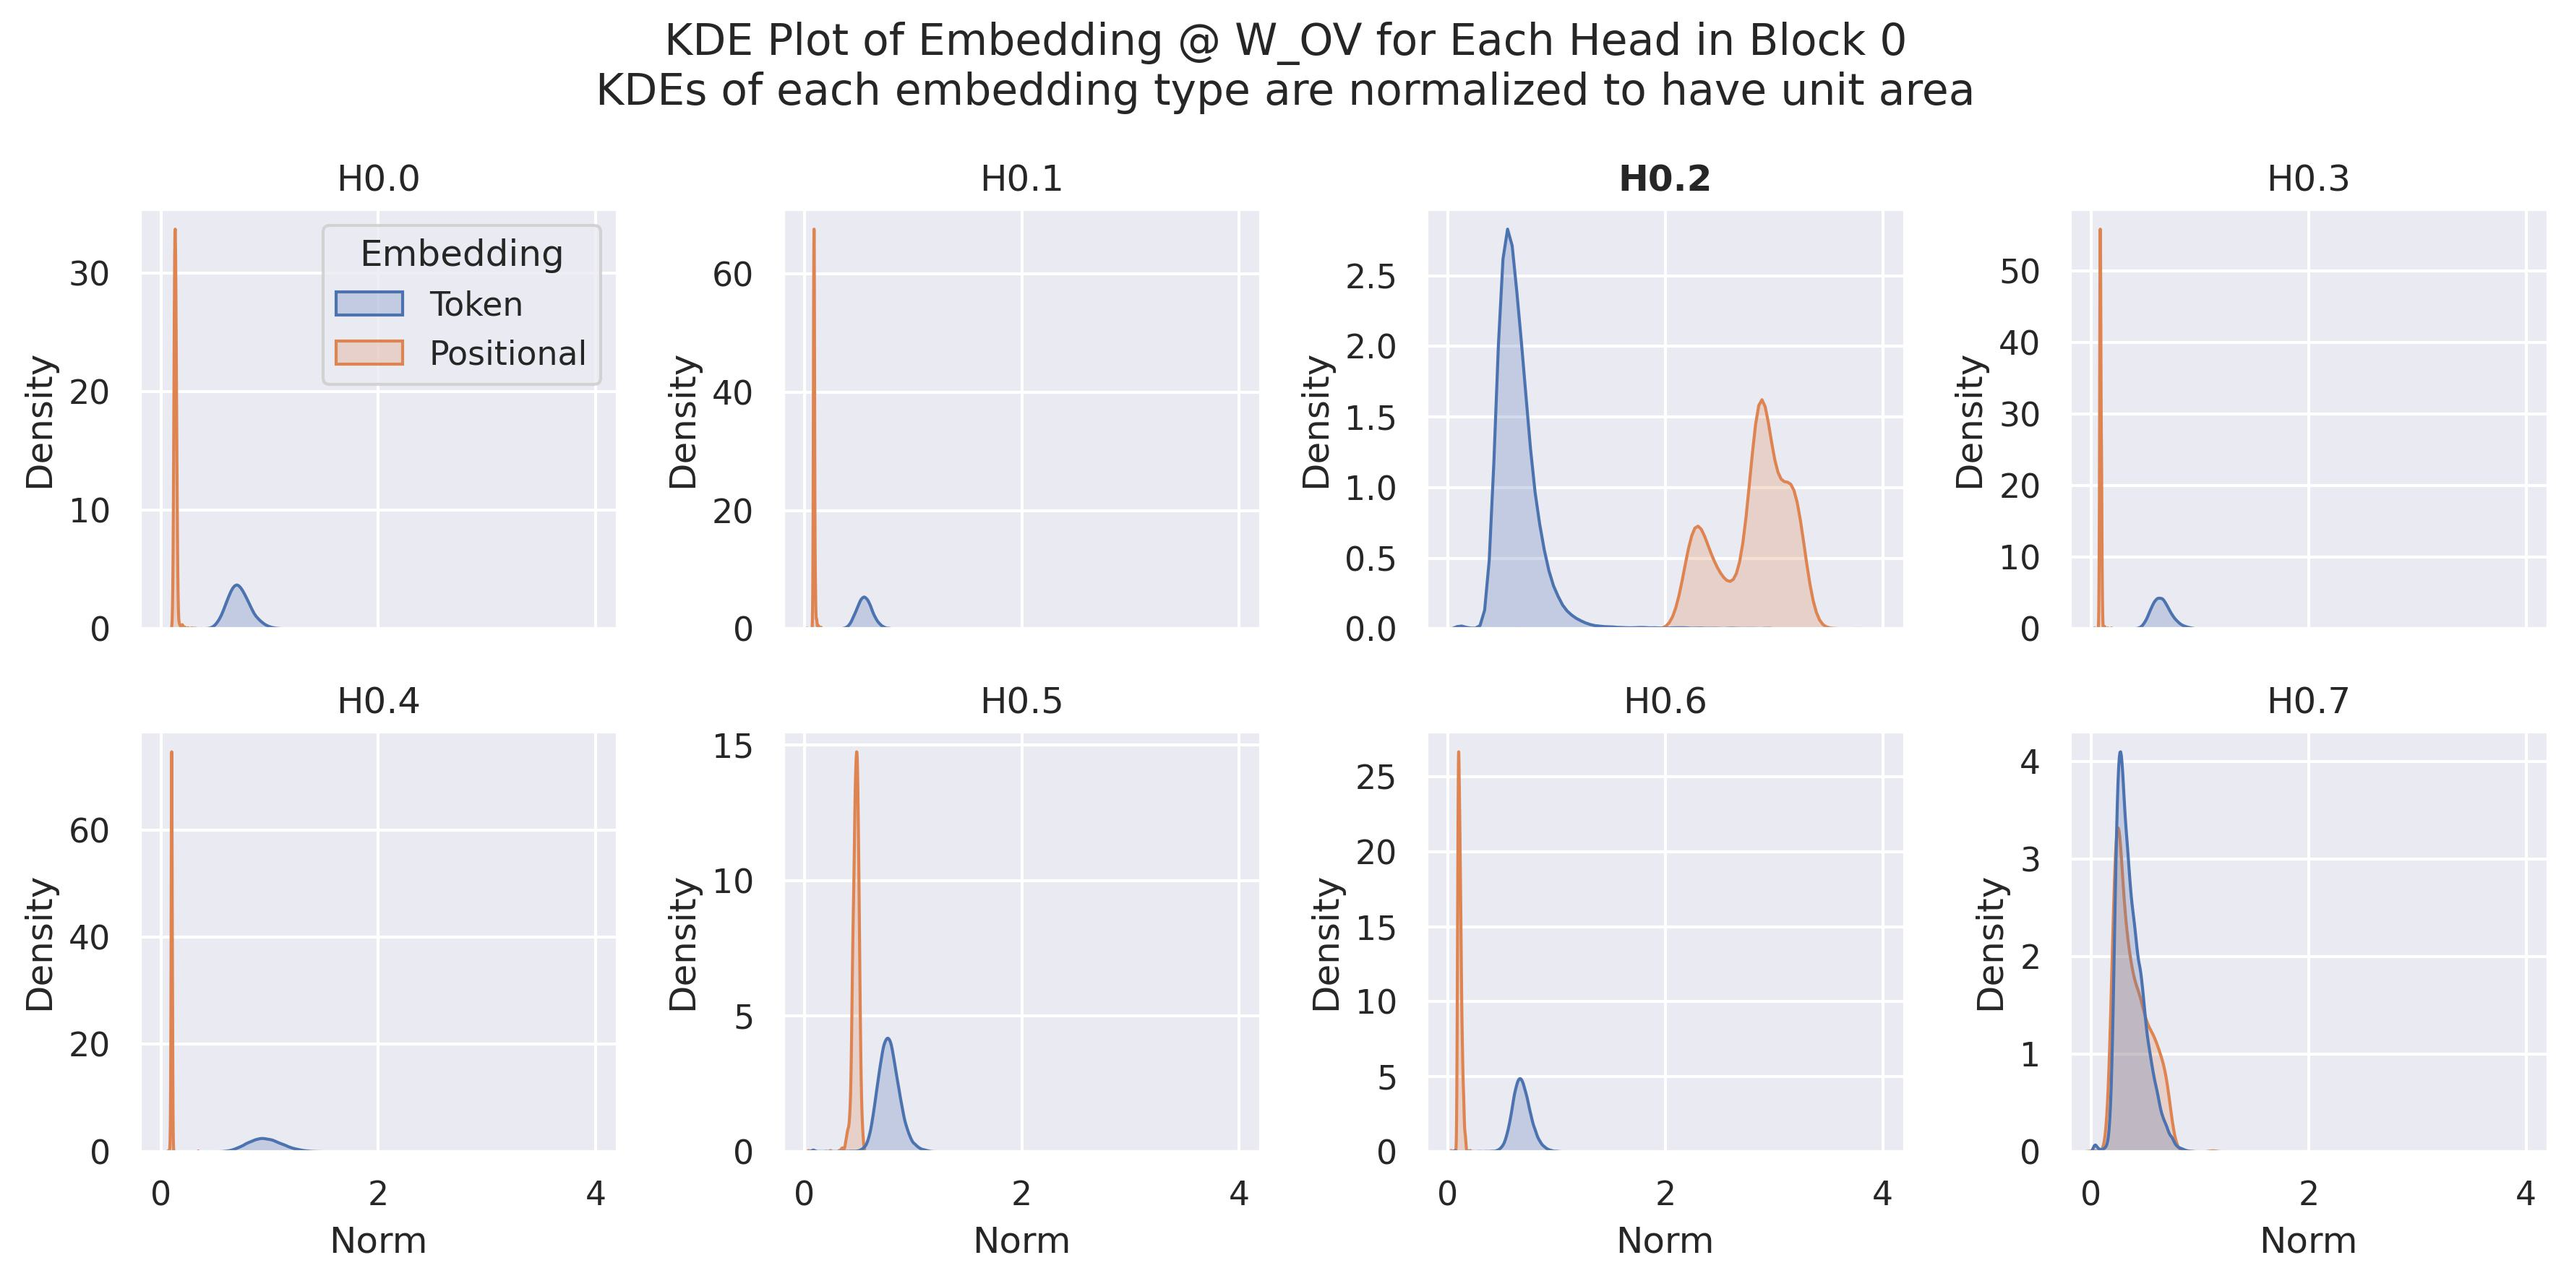
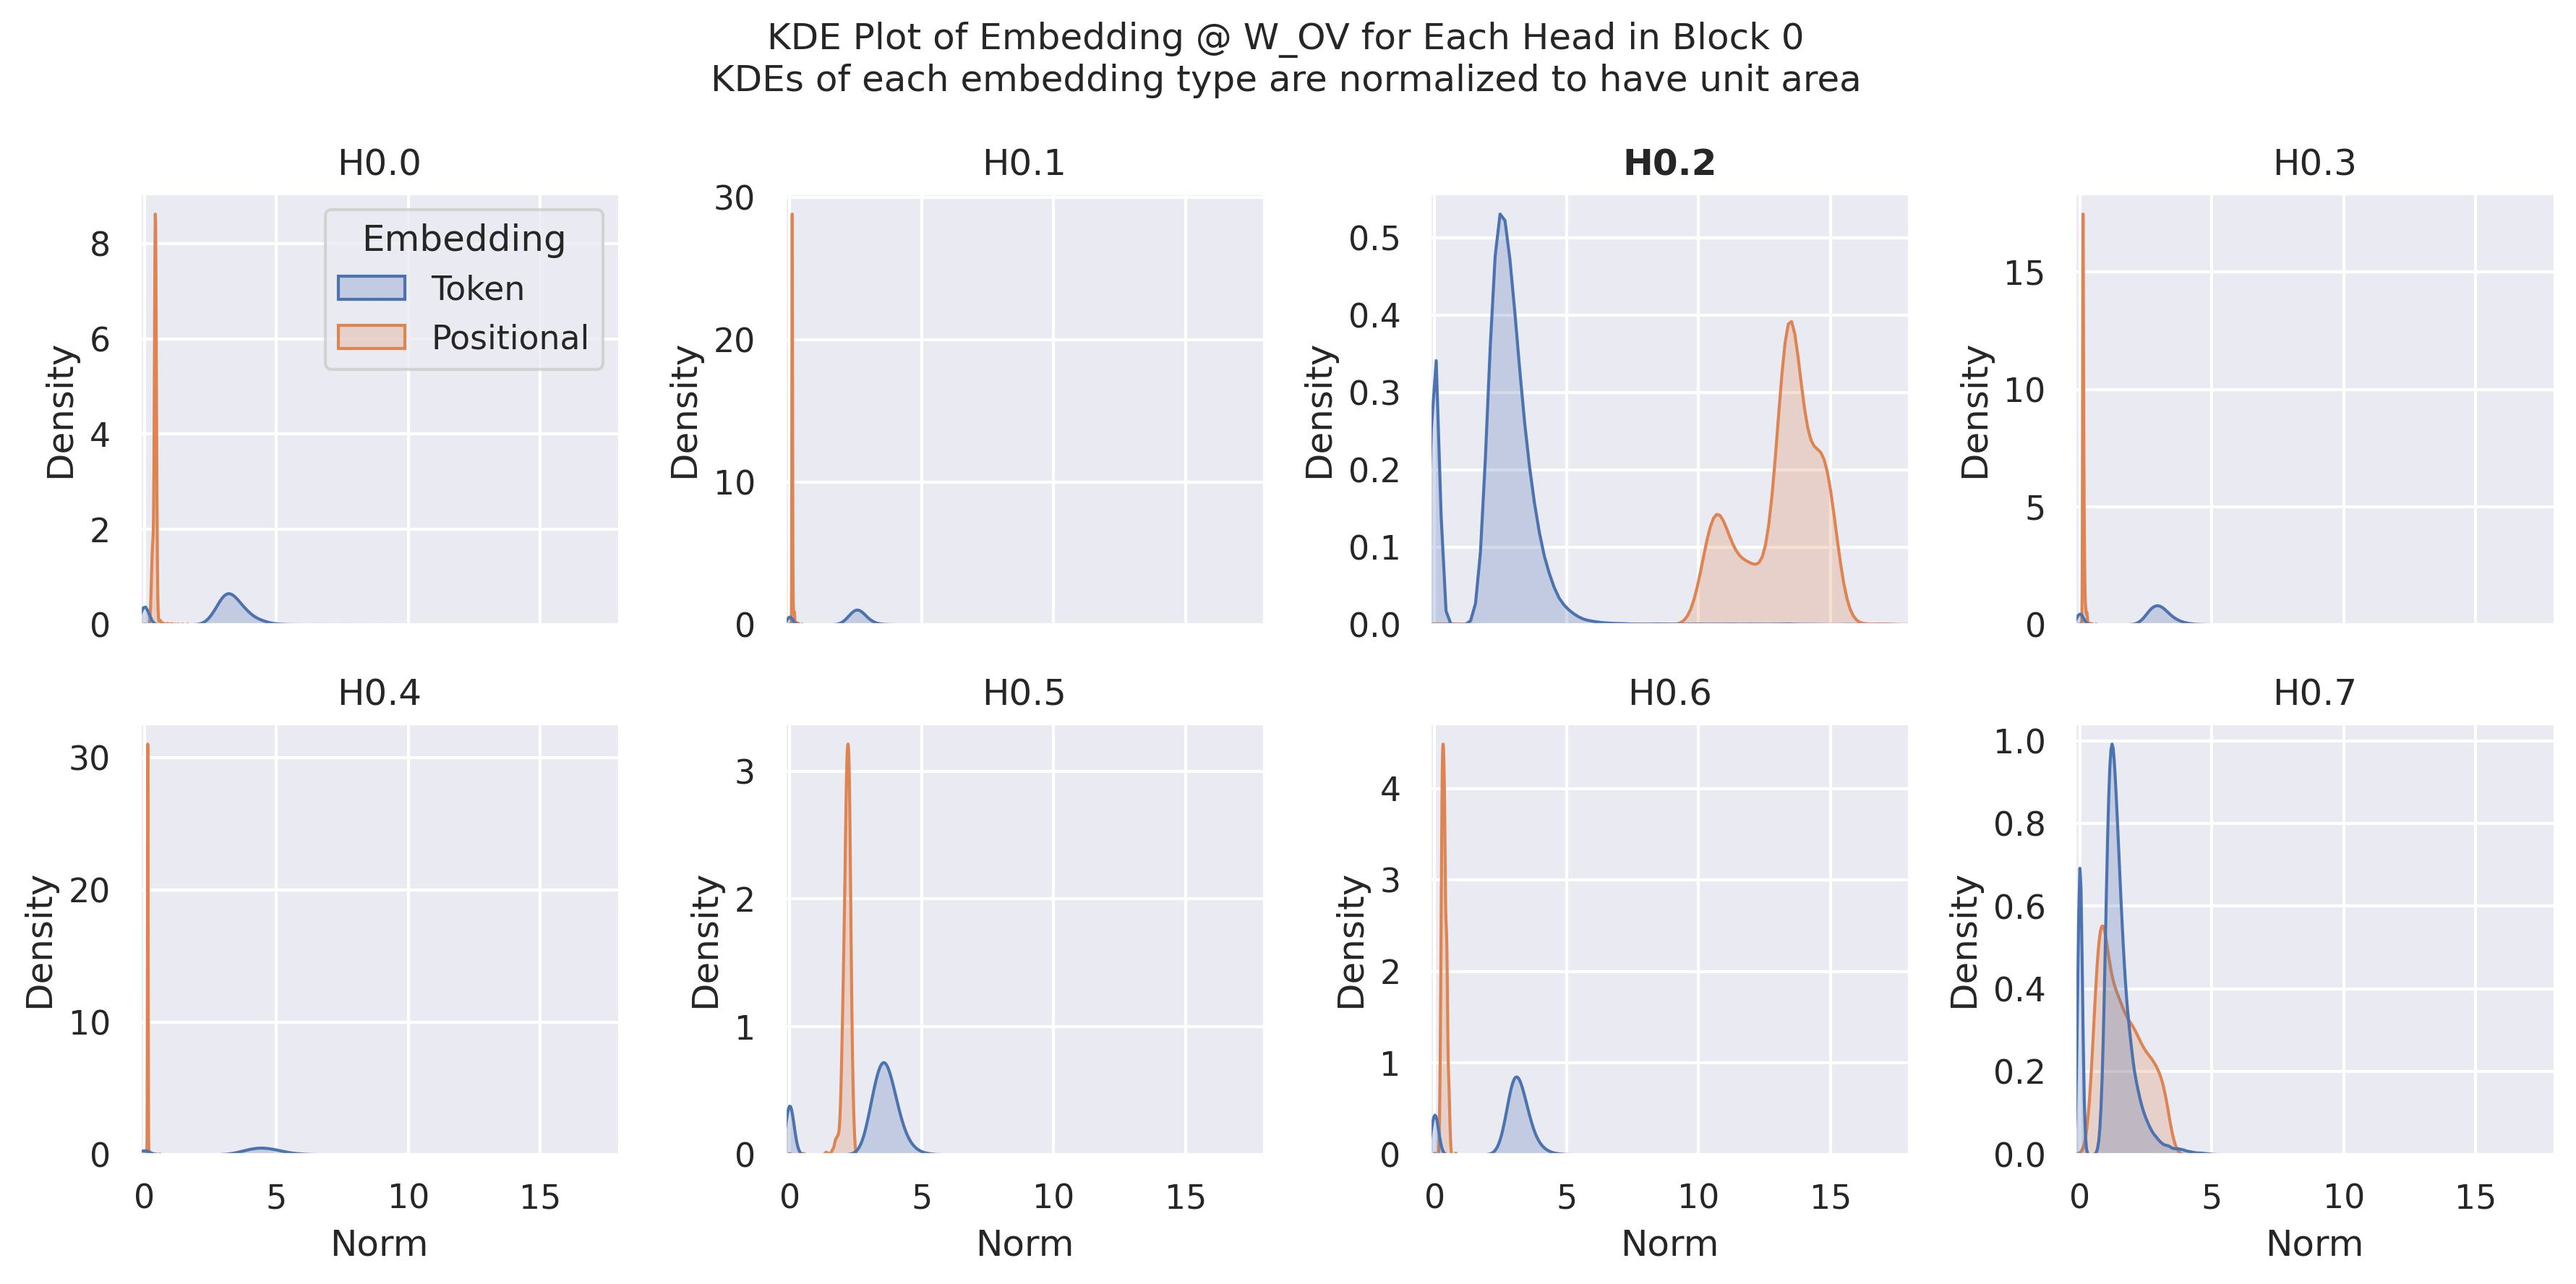
added Jett's embed scaling to fig6

diff --git a/jamesd_utils.py b/jamesd_utils.py
@@ -1,6 +1,11 @@
+import torch
 import einops
+
+from typing import List, Tuple, Optional
 from jaxtyping import Float
 from torch import Tensor
+
+from tqdm.auto import tqdm, trange
 
 
 def projection_ratio(
@@ -110,3 +115,73 @@ def projection_value_cartesian(
         writer_vectors / writer_vectors.norm(dim=-1, keepdim=True),
         "dim0_arg0 ... d_model, dim0_arg1 ... d_model -> dim0_arg0 dim0_arg1 ...",
     )
+
+
+def scale_embeddings(
+    model,
+    token_ids_to_scale: Optional[List[int]],
+    device="cpu",
+) -> Tuple[Float[Tensor, "d_vocab d_model"], Float[Tensor, "n_ctx d_model"]]:
+    """
+    Scales the token and positional embeddings of a model.
+    
+    Taken from Jett's notebook:
+    https://github.com/jettjaniak/research/blob/70f1a09910953a6c909b876ad60bb5c350ac9cfc/014-p-to-t-tok-stats.ipynb
+
+    Args:
+        model: a HookedTransformer from Transformer Lens
+        token_ids_to_scale: a list of token IDs to apply scaling to. If `None`,
+            then all token IDs are scaled.
+    
+    Returns:
+        A tuple of (scaled_token_embeddings, scaled_positional_embeddings)
+    """
+    W_E = model.W_E.data  # token embeddings, (d_vocab, d_model)
+    W_pos = model.W_pos.data # positional embeddings, (n_ctx, d_model)
+
+    if token_ids_to_scale is None:
+        token_ids_to_scale = list(range(model.W_E.shape[0]))
+
+    def decompose_resid0():
+        b_T_ = W_E[token_ids_to_scale].mean(dim=0, keepdim=True)
+        b_P_ = W_pos[1:].mean(dim=0, keepdim=True)
+        b_TP_ = b_T_ + b_P_
+        T_ = torch.zeros_like(W_E)
+        T_[token_ids_to_scale] = W_E[token_ids_to_scale] - b_T_
+        P_ = torch.zeros_like(W_pos)
+        P_[1:] = W_pos[1:] - b_P_
+        return T_, P_, b_TP_
+
+    def layer_norm_scale(x):
+        x2 = x.pow(2)
+        x2mean = x2.mean(-1, keepdim=True)
+        x2mean_eps = x2mean + model.cfg.eps
+        return x2mean_eps.sqrt()
+
+    def get_T_ln_scale(T_, P_, b_TP_):
+        print("computing T LN scaling")
+        T_ln_scale = torch.ones(T_.shape[0], 1).to(device)
+        for t in tqdm(token_ids_to_scale):
+            combined_embed = (T_[t:t+1] + P_[1:] + b_TP_)
+            combined_embeds_norms = layer_norm_scale(combined_embed)
+            T_ln_scale[t] = combined_embeds_norms.median()
+        return T_ln_scale
+
+    def get_P_ln_scale(T_, P_, b_TP_):
+        print("computing P LN scaling")
+        P_ln_scale = torch.ones(model.cfg.n_ctx, 1).to(device)
+        for p in trange(1, model.cfg.n_ctx):
+            combined_embed = (P_[p:p+1] + T_[token_ids_to_scale] + b_TP_)
+            combined_embeds_norms = layer_norm_scale(combined_embed)
+            P_ln_scale[p] = combined_embeds_norms.median()
+        return P_ln_scale
+
+    T_, P_, b_TP_ = decompose_resid0()
+
+    T_ln_scale = get_T_ln_scale(T_, P_, b_TP_)
+    P_ln_scale = get_P_ln_scale(T_, P_, b_TP_)
+
+    scaled_token_embeddings = T_ / T_ln_scale
+    scaled_positional_embeddings = P_ / P_ln_scale
+
+    return scaled_token_embeddings, scaled_positional_embeddings

diff --git a/figure_recreation/fig6_OVs_of_H0_X.py b/figure_recreation/fig6_OVs_of_H0_X.py
@@ -1,9 +1,17 @@
 #%%
+# Gross code to allow for importing from parent directory
+import os, sys
+from pathlib import Path
+parent_path = str(Path(os.getcwd()).parent)
+if parent_path not in sys.path:
+    sys.path.append(parent_path)
+
+# Imports
 import pandas as pd
 import torch
-import einops
 
 from transformer_lens import HookedTransformer
+from jamesd_utils import scale_embeddings
 
 import matplotlib.pyplot as plt
 import seaborn as sns
@@ -14,12 +22,12 @@ sns.set()
 torch.set_grad_enabled(False)
 device = "cpu"
 
-FIG_FILEPATH = "figs/fig6_OVs_of_H0_X.jpg"
-
 # Transformer Lens model names:
 # https://github.com/neelnanda-io/TransformerLens/blob/3cd943628b5c415585c8ef100f65989f6adc7f75/transformer_lens/loading_from_pretrained.py#L127
 MODEL_NAME = "gelu-4l"
 BLOCK = 0
+MIN_TOKEN_COUNT = 100
+FIG_FILEPATH = "figs/fig6_OVs_of_H0_X.jpg"
 
 
 #%%
@@ -27,9 +35,16 @@ model = HookedTransformer.from_pretrained(MODEL_NAME, device=device)
 model.cfg.use_attn_result = True
 
 #%%
-W_E = model.W_E  # (d_vocab, d_model)
-W_pos = model.W_pos  # (n_ctx, d_model)
+# # Unscaled embeddings
+# W_E = model.W_E  # (d_vocab, d_model)
+# W_pos = model.W_pos  # (n_ctx, d_model)
 
+# Scaled embeddings
+df_token_counts = pd.read_csv("../sanity_checks/counts_with_strings.csv")
+token_ids_to_scale = df_token_counts.query("count >= @MIN_TOKEN_COUNT")["token_id"].tolist()
+W_E, W_pos = scale_embeddings(model, token_ids_to_scale, device=device)
+
+#%%
 W_OV = []
 for head in range(model.cfg.n_heads):
     W_OV.append(model.W_V[BLOCK, head] @ model.W_O[BLOCK, head])
@@ -67,7 +82,7 @@ for head in range(model.cfg.n_heads):
     )
     title_kwargs = dict(fontweight='bold') if head == 2 else {}
     ax[row, col].set_title(f"H{BLOCK}.{head}", **title_kwargs)
-    ax[row, col].set_xlim([-0.2, 4.2])
+    ax[row, col].set_xlim([-0.2, 18.0])
     ax[row, col].set_xlabel("Norm")
     if not (row == 0 and col == 0):
         ax[row, col].get_legend().remove()
